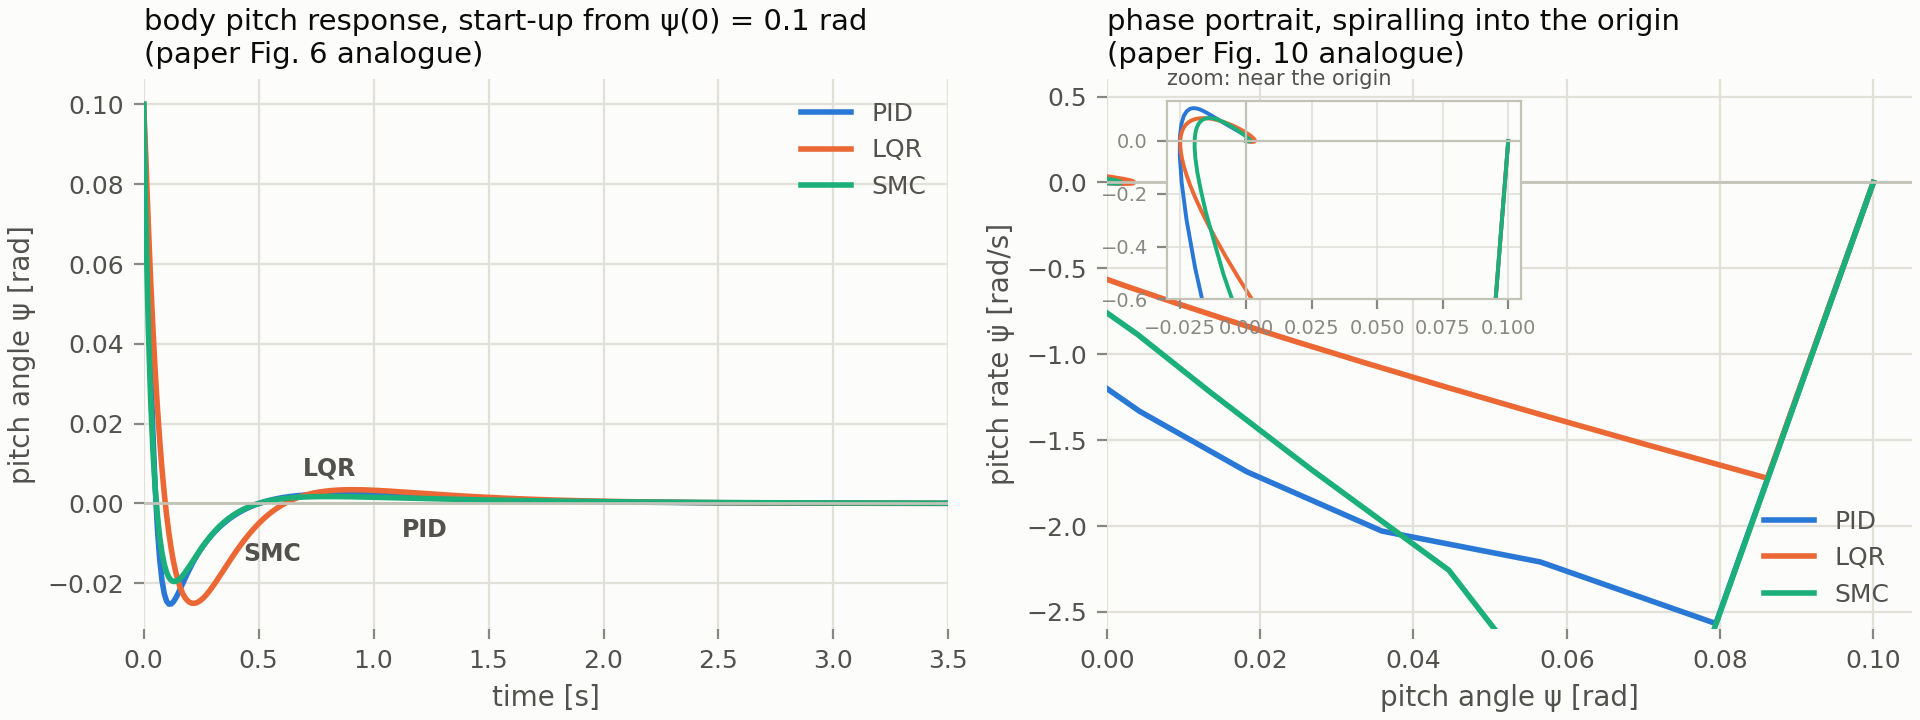
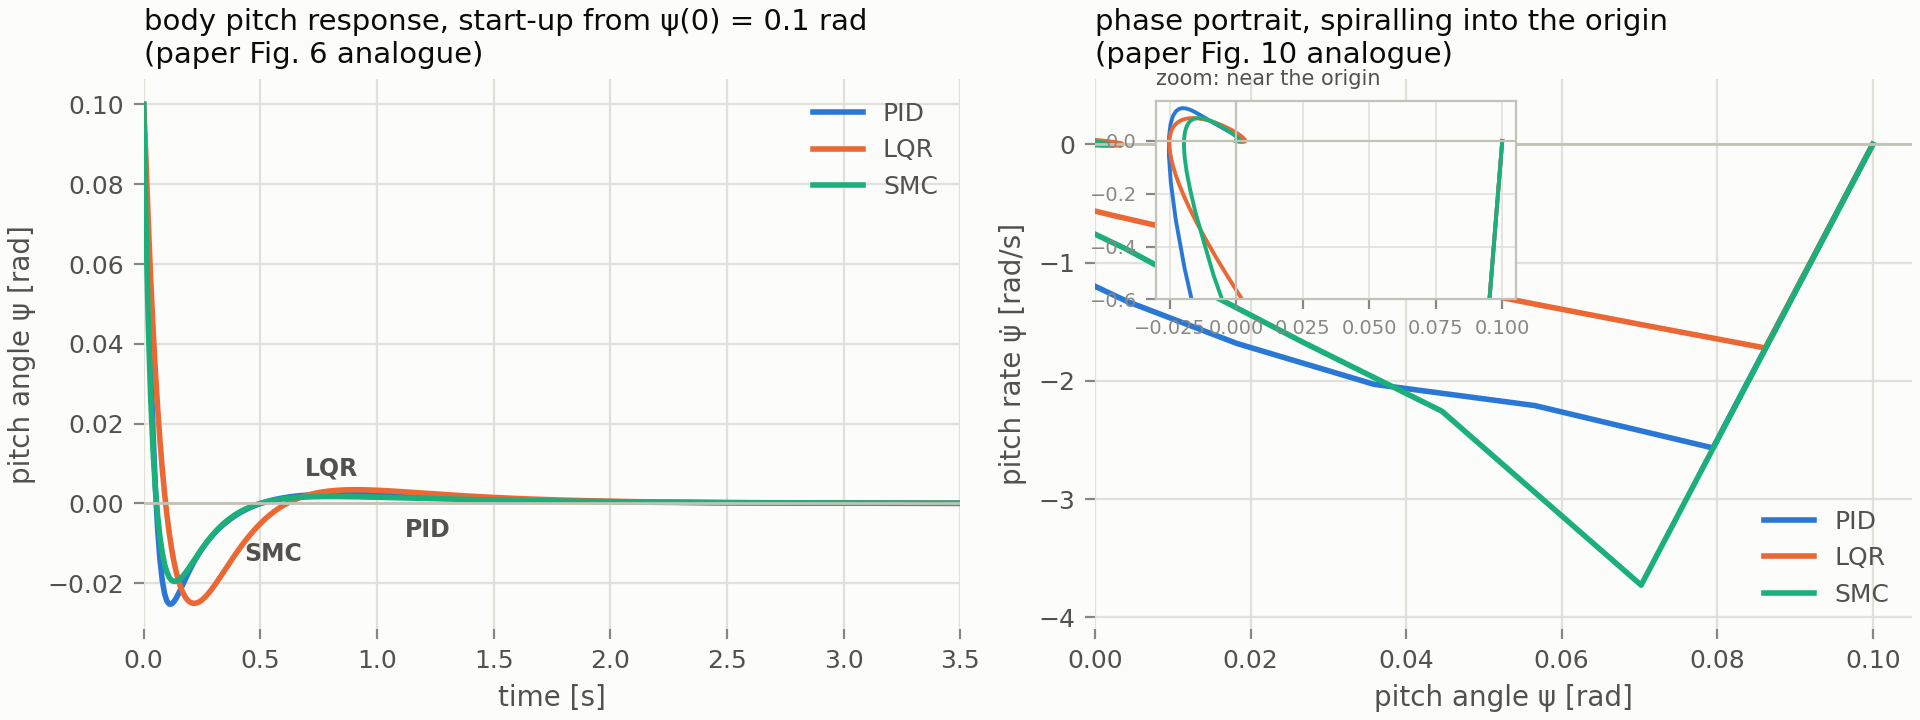
Fig. A: widen the phase-portrait y-axis (SMC first sample was clipped)
SMC's first sample reaches psi-dot = -3.73 rad/s; the old PHASE_Y = (-2.6, 0.6)
cut it off, so the SMC trajectory appeared to start at the axis floor. Now
(-4.10, 0.55) shows all three trajectories in full; the zoom inset still
carries the near-origin spiral.

diff --git a/scripts/make_checkpoint_figures.py b/scripts/make_checkpoint_figures.py
@@ -69,7 +69,7 @@ INPUT_PULSE_S = 0.1                # sustained input pulse width
 
 # paper Fig. 10 axis ranges (angle [rad], angular speed [rad/s])
 PHASE_X = (0.0, 0.105)
-PHASE_Y = (-2.6, 0.6)
+PHASE_Y = (-4.10, 0.55)
 
 
 # --------------------------------------------------------------------------- #
